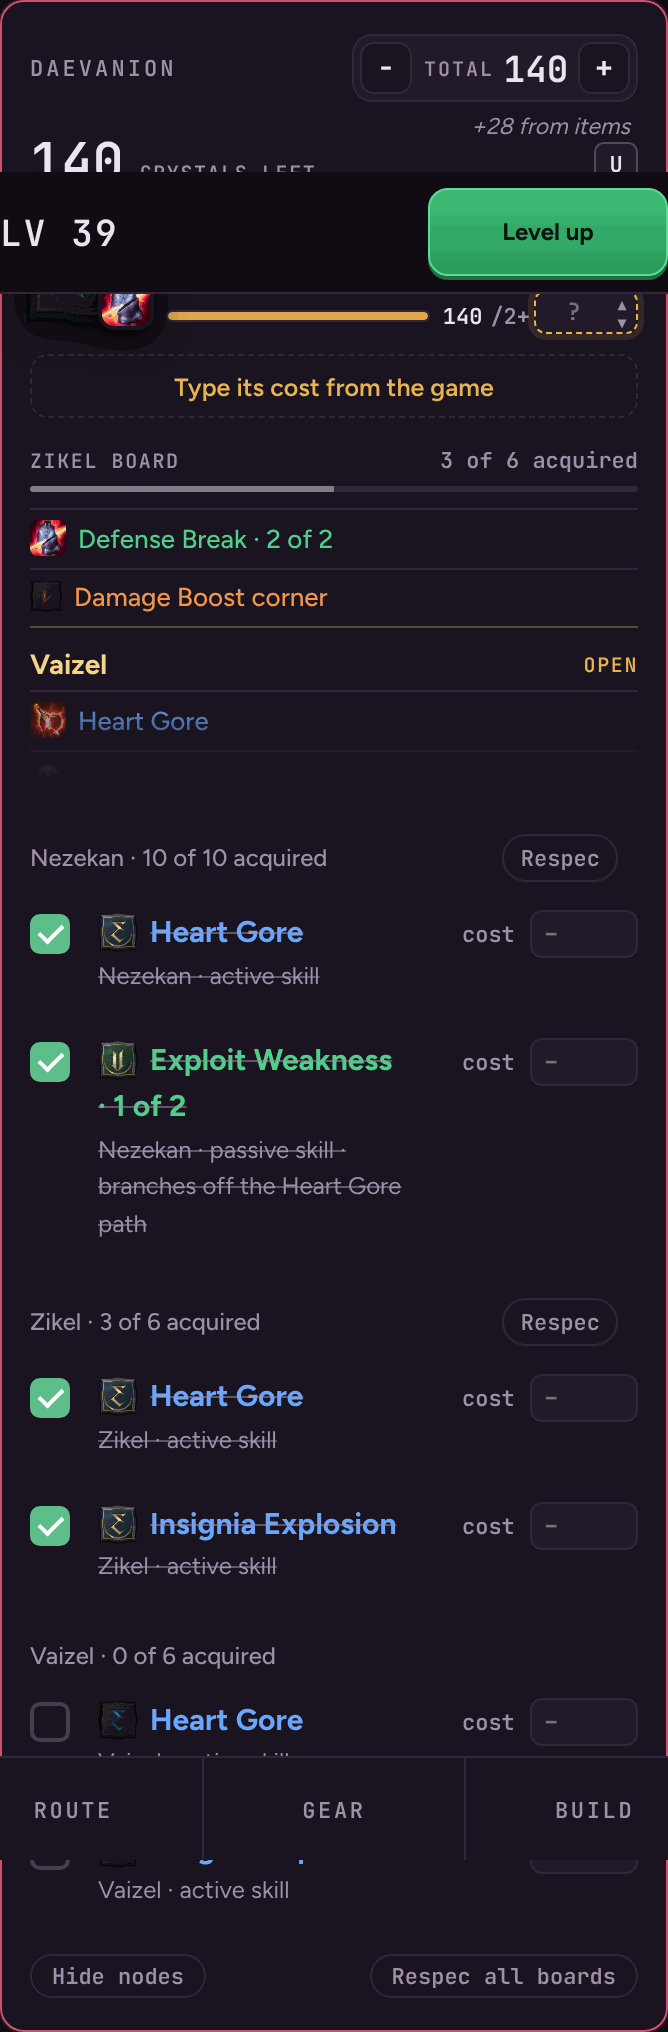
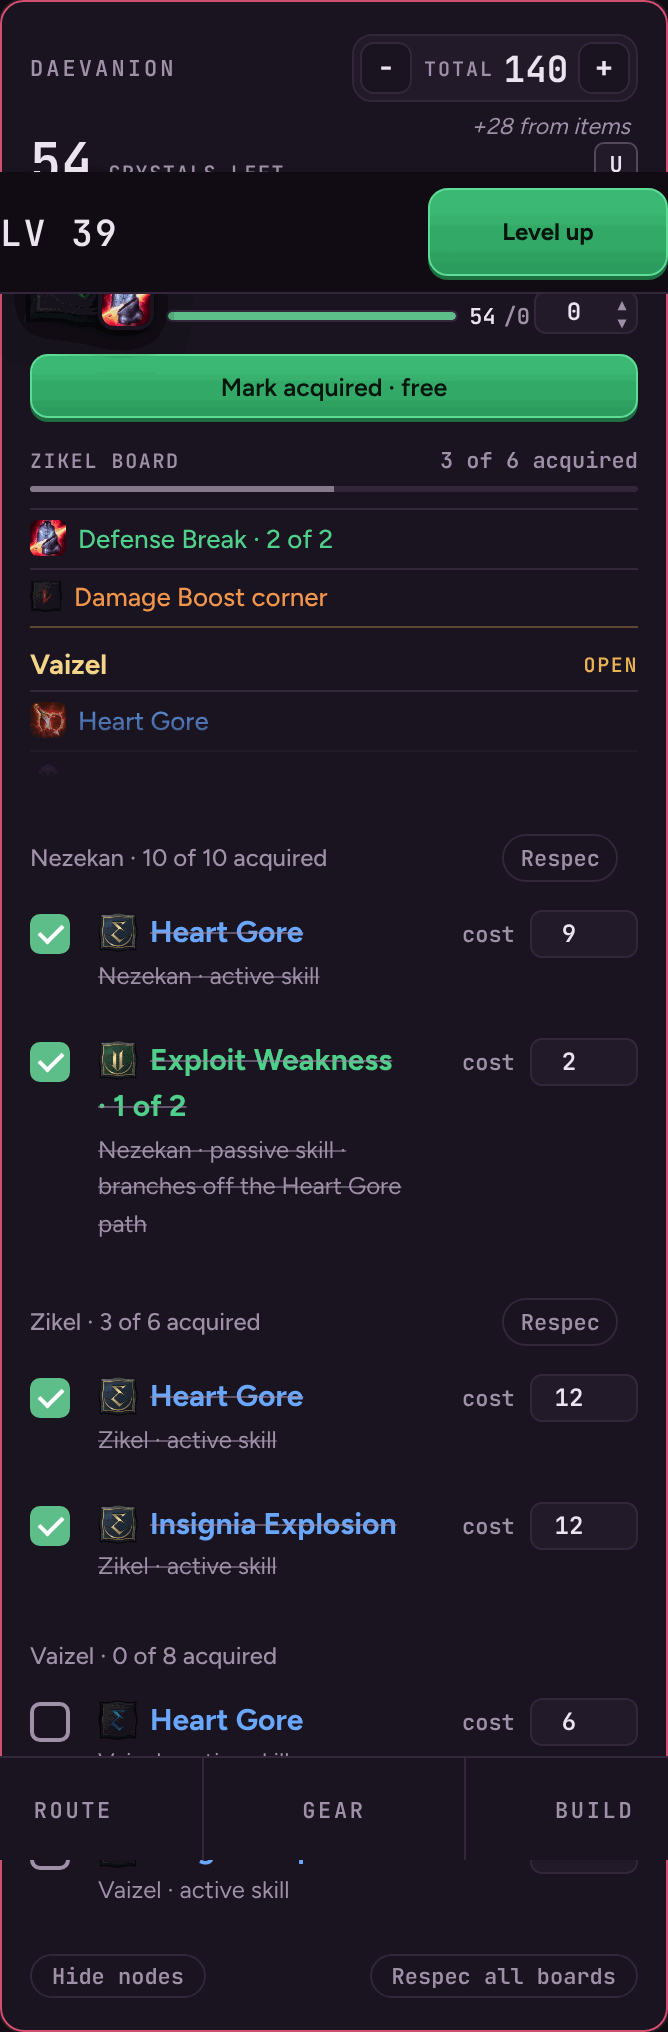
0.9 mockups: catch-up keeps every card whole; one-view rulings applied
Daevanion and Stigmas catch-up become a strip above today's hero, with "Mark bought ▾" / "Mark equipped ▾"
menus, so the hero, cost field, Crystals left and lists stay; after-states drawn. The Missed-chores fold is
dropped (fresh review: it hid each chore's how-to and Done). Catch-up's Basic frames go (it ships in the one
view). One view: the outside rulings on the five drops are recorded; the Fastest / Completionist toggle stays
until "Main path only" ships with it. Docs and mockup files only.

Claude-Session: https://claude.ai/code/session_01K8AEp1D6fnpHKSP7HbTKan

diff --git a/docs/design/0.9-catchup/README.md b/docs/design/0.9-catchup/README.md
@@ -88,11 +88,17 @@ whole jump instead of one level.
 - Other levels: `10-skills-lv27-390` (96 pts, 8 skills at 4–9), `10-skills-lv45-390` (203 pts, 10 skills). Another class:
   `10-skills-ranger-*`, where specialties have no sourced pick yet ("Specialty slot 1 opens · no sourced pick yet").
 
-**Daevanion** (`10-boards-*`): one row per open board, with its plan nodes and crystals ("Nezekan board · 10 nodes · 52
-crystals · Have them"). Triniel is listed, greyed: "Opens at Lv 40". The crystal counts come from #602. Isaac's Zikel
-screen reads "Total: 42" against 47 here, so that one is with Game Data Check before the build. **Stigmas** (`10-stigmas-*`): the four slots in the
-same row pattern, with "Have it" and their plan levels. Each button's name says which row it marks ("Have them: Zikel
-board").
+**Daevanion and Stigmas** (`10-boards-*`, `10-stigmas-*`): today's cards stay whole: the hero next node with its cost
+field, "Need 9 more · +4 per level", Crystals left and the board's node list; the next stigma with "change ▾" and its
+action. Above the hero, one strip says what opened before you joined, with a menu to mark what you already have:
+- Daevanion: "3 boards opened before you joined · Mark bought ▾". The menu lists Nezekan (10 nodes · 52), Zikel (6 · 47)
+  and Vaizel (8 · 39), and says "Triniel opens at Lv 40". Marking a board ticks its guide nodes. Total stays the number you
+  type from the game, so Crystals left counts them as spent (`10-boards-after-*`: 140 typed, 88 left, the hero moves to
+  Zikel).
+- Stigmas: "4 stigma slots opened before you joined · Mark equipped ▾", with each slot and its level. Marking one ticks the
+  slot equipped; you set its level in Slots. After all four (`10-stigmas-after-*`) the strip is gone and the card is today's.
+- The crystal counts come from #602. Isaac's Zikel screen reads "Total: 42" against 47 here, so that one is with Game Data
+  Check before the build.
 
 **The 1500 row** (`10-row-1500`): all three cards in catch-up together. The Skills card sets the row's height, Daevanion
 and Stigmas fill it, and the three foot rows line up.
@@ -104,11 +110,11 @@ specialty …", and Mark spent. This is what Isaac described.
 **Next up, option B** (`10-nextup-b-*`): one card for the whole catch-up ("Catch up 8 skills · 164 of your 165 pts · Heart
 Gore first", Show in Skills). Not picked: Next up stops naming the next action, which is its job.
 
-**Folded chores** (`10-nextup-fold-*`, UX audit 8): the four Missed chores from more than 10 levels back (Lv 4–16) fold into
-one card, "4 early steps you have probably done", with Review and All done.
+**Missed chores stay as they are.** The fold (UX audit 8) is dropped: a fresh review found it hid each chore's how-to,
+location and Done, and "All done" would dismiss four steps you hadn't seen. Today's chore cards keep all of that.
 
 **Cost:** no new card height: the Skills card keeps its shape, and the hero and Coming up only change what they count.
-Build work is a jump step in the Skills hero, a catch-up kind in Next up, and two row lists. No save field: a jump is done
+Build work is a jump step in the Skills hero, a catch-up kind in Next up, and one strip with a menu, used twice. No save field: a jump is done
 when its lines are ticked.
 
 **Out of scope, but it touches this:** slot 2 specialties (0.8.1 notes 5 and 6). Once they land, a jump whose board nodes
@@ -126,7 +132,8 @@ take the skill to 12 adds "· slot 2: …" to its line.
 |---|---|
 | Skills hero, its ACTIVE chip, "priority #1", "Mark spent", "+N more your points cover", Coming up and "N of 141 spent" in catch-up (Holly 2, 3; critic 2) | Brought back: catch-up now uses today's hero |
 | Next up's level band in catch-up (critic 3) | Brought back |
-| Daevanion's and Stigmas' heroes (next node, next stigma level) while their catch-up is open (Holly re-review) | Brought back after the catch-up: once the last "Have them" / "Have it" is marked, each card returns to today's hero, as Skills does (`10-skills-done-*`). During the catch-up the list is the card's next step. These two catch-up looks and the folded chores are new since the critic's pass, so they get one fresh look (K24) before the build |
+| Daevanion's and Stigmas' heroes, cost field, "Need N more", Crystals left, node list, the next stigma and "change ▾" (Holly re-review; fresh review of 4bafe69, 1–3, 11–12) | Brought back: both cards stay whole, and catch-up is a strip above the hero |
+| Each Missed chore's how-to, location and Done (fresh review 18–19) | Brought back: the fold is dropped |
 | "How points work" / "How shards work" labels | Kept, as the name and tooltip of the "i" button |
 | The two-step "Click again to respec" (critic 7) | Brought back, with Undo added. A fresh outside reviewer said bring back: the Undo toast lasts about 5 s, isn't saved, and sits a card away from the button on a phone, while a Daevanion respec also clears typed node costs. Undo alone would do only if it were kept in the save until the next change. |
 
@@ -142,7 +149,7 @@ take the skill to 12 adds "· slot 2: …" to its line.
 | 8 | Fixed: no dead band; the card keeps today's shape (the old view left `fitSkills`' min-height) |
 | 9 | Fixed: `10-row-1500` |
 | 10 | Fixed: Basic catch-up frames and the hand-back (`10-skills-done-*`) |
-| 11 | Fixed: "Mark spent", "Have them", "Have it"; Next up "Mark spent" |
+| 11 | Fixed: "Mark spent", "Mark bought", "Mark equipped"; Next up "Mark spent" |
 | 12 | Fixed: one foot row on all three cards (the "i" button) |
 | 14 | Fixed: "Nezekan reset · 10 nodes back · Undo" |
 | 15 | No data issue: specialty slot 1 opens at skill Lv 8 (`rule:specialty-slots`), so a pick at 9 is open |
@@ -169,3 +176,20 @@ take the skill to 12 adds "· slot 2: …" to its line.
 | B1, B2 | For Holly's brief template, not the design |
 | B3 | Fixed: Lv 27 and Lv 45 frames, 360 frames for the menu and the board chip |
 | Checklist | Names: each row button names its row; the ✓ is "Marked". Tap targets: Mark all spent, N more and the board chip are 24 px tall. Text: nothing under 11 px. Missing states drawn: Basic, nothing to respec, Lv 27 / 45, catch-up done. Not drawn: the Undo toast timing out (it leaves, and the respec stays); focus rings (the build's own `:focus-visible` applies; checked in the build PR). Saved progress: no new field. |
+
+**Fresh review of the catch-up looks** (`design-review/fresh-review-0.9-catchup.md`, items 1–24, at 4bafe69)
+
+| # | Answer |
+|---|---|
+| 1–3, 11, 12 | Fixed: the cards stay whole; catch-up is a strip above the hero |
+| 4 | Fixed: the NEW tag is back with the card |
+| 5 | Kept: "Respec ▾" is note 9's option A |
+| 6, 8 | Gone with the row list |
+| 7, 16 | Fixed: "Mark bought ▾", "Mark equipped ▾" |
+| 9 | With Game Data Check (Zikel 47 vs the owner's 42) |
+| 10, 17 | Fixed: the hero is the next action during catch-up too; after-states drawn (`10-boards-after-*`, `10-stigmas-after-*`) |
+| 13 | The "i" button has the accessible name "How shards work" (and a tooltip) |
+| 14 | Respec in Basic is the owner's ask (note 9, 0.8.1 F7); the one view keeps it |
+| 15 | Gone with the row list |
+| 18–24 | Fixed: the chore fold is dropped |
+| Lv 27 / 45 | Skills has them (`10-skills-lv27-390`, `10-skills-lv45-390`); the strip only changes its counts |

diff --git a/docs/design/0.9-one-view.md b/docs/design/0.9-one-view.md
@@ -30,7 +30,7 @@ Source: every `body.basic` rule (`src/styles/app.css:177, 636–657, 684`, `sync
 | Today in Basic | One view | Why |
 |---|---|---|
 | `rankNext({ basic })` drops `later` and `adv` cards (`core/nextup.js:140`) | **Basic's list is the headline.** The `adv` / `later` cards move to the On the way line (0.10). Until it lands, they sit in a "More you could do" fold under the cards, closed | The north star stays one step |
-| Forces the Fastest track (`trackOf`, :78); Completionist offers 3 more steps (:149) | **The track toggle is removed** (critic 3, 12). "Main path only" (0.10) replaces it and carries the drawbacks text. Until then, the Completionist extras go into the same "More you could do" fold | Named removal: the Fastest / Completionist toggle (`#trackWrap`, 0.5) |
+| Forces the Fastest track (`trackOf`, :78); Completionist offers 3 more steps (:149) | **The track toggle stays, open, until "Main path only" ships, and both changes land in the same release** (outside ruling, 2026-10-20). Then "Main path only" replaces it and carries the drawbacks text | Named removal, deferred: the Fastest / Completionist toggle (`#trackWrap`, 0.5) |
 | Hides band labels (:150) | **Open**: band labels shown | They name the level range, as milestone cards do |
 | Hides the phone pager (`cards/nextup.js:122`) | **Open** | It's how you reach card 2 on a phone |
 | `.ns-head` hidden ("Prefer running" row) | **Open** | It changes what Next up recommends |
@@ -54,7 +54,7 @@ Source: every `body.basic` rule (`src/styles/app.css:177, 636–657, 684`, `sync
 |---|---|---|
 | Rail sections 4 and later (`aside.rail > section:nth-child(n+4)`) | **Fold** per section, closed | The first three are the essentials |
 | Notes card hidden on a phone (`app.css:177`) | **Fold**, closed on a phone | Same as above |
-| Rail scroll and mask (`app.css:649–657, 684`) and `fitRail()` (`main.js:314`) | **One behaviour: Advanced's sticky rail.** Basic's scroll-with-mask goes (critic 6) | Layout, not hiding; the sticky rail is the tested one |
+| Rail scroll and mask (`app.css:649–657, 684`) and `fitRail()` (`main.js:314`) | **One behaviour: Advanced's sticky rail.** Basic's scroll-with-mask goes (critic 6), on the condition that every rail item stays reachable at 390 and 1500 (a check in P21) | Layout, not hiding; the sticky rail is the tested one |
 | Header subtitle (`header.top .sub`: "Free-to-play · story first · Next up always shows your next move.") | **Drop** | Says what the page already does. Named drop |
 | `#routeCard` (Route rules) | **Fold**, closed | Reference, not a step |
 | Progress folded on a phone in Basic only (`main.js:190`, `owner-ok-phone`) | **Fold on a phone, always** | The phone rule becomes the rule |
@@ -67,7 +67,7 @@ Source: every `body.basic` rule (`src/styles/app.css:177, 636–657, 684`, `sync
 | Control hints (`.ctlcol em`: "165 earned from levels") | **Open** | They explain the number you type |
 | Skills: `.sphint`, `#spSoon` past row 1, `#spAfter .dvbh` (the N of 141 bar) | **Open** (Advanced's card) | Holly 2 / 3 brought these back for catch-up; one card shape |
 | Daevanion: `#dvRemain`, `#dvBoard`, `#dvThen` past row 1, `#dvAllList`, `#dvUndo` | **Open**, with All nodes as today's button | Same card as Advanced; All nodes is already a button |
-| Stigmas: `#stAfter` hidden, `.st-then` shown instead | **Advanced's `#stAfter`**; `.st-then` goes | One list per card (no redundancy) |
+| Stigmas: `#stAfter` hidden, `.st-then` shown instead | **Advanced's `#stAfter`**, which is the upcoming-stigmas list ("Coming up · N of 92 spent", each next level with its level and shard cost). `.st-then` goes because `#stAfter` covers it | One upcoming list per card (no redundancy) |
 | `.cubebar` | **Open** (it's `hidden` until it has content) | No change |
 | Areas: `.achips`, `.sh-note`, `.ztr` | **Fold** inside Areas: "Filters and notes" | Inventory, not a step |
 | Sync: `.sync-adv` | **Fold**: "Sync settings" | Settings, not a step |
@@ -85,13 +85,20 @@ Each needs a DECISIONS line in P21 saying what the one view does. The basis is t
 | `owner-ok-phone` ("Basic opens on Next up … Progress folded") | The one view opens on Next up on a phone, with Progress folded |
 | 0.8.1 F7 (Respec in Basic) | Ships as is; the one view keeps it |
 
-## Drops (for the outside reviewer)
+## Drops, with the outside rulings (fresh review items 25–29, 2026-10-20)
 
-1. The Basic / Advanced switch.
-2. The Fastest / Completionist track toggle. It's replaced by "Main path only" in 0.10, and its extras sit in a fold until then.
-3. The header subtitle line.
-4. Basic's scrolling rail with the fade mask (layout).
-5. Stigmas' `.st-then` short list (`#stAfter` covers it).
+1. **The Basic / Advanced switch: dropped.** The outside reviewer asked for the owner's OK, because "Basic mode =
+   essentials only" is an owner line in CLAUDE.md. That OK is in the owner's own 5:45 PM ET message, which hands this exact
+   decision to review ("see if it really needs to exist or we can just make one better version, so we don't have to
+   maintain two views"). The first outside critic agreed on the merits. The owner is away, so the CLAUDE.md rewrite cites
+   that message.
+2. **The Fastest / Completionist toggle: not dropped in 0.9.** It goes only when "Main path only" ships in the same
+   release.
+3. **The header subtitle line: dropped** (agreed; it holds none of the required "unofficial / not affiliated" text).
+4. **Basic's scrolling rail with the fade mask: dropped** (agreed, on the condition that every rail item stays reachable
+   at 390 and 1500).
+5. **Stigmas' `.st-then` short list: dropped** (agreed, on the condition that the view keeps an upcoming-stigmas list:
+   `#stAfter` is that list).
 
 Everything else is open or folded. **Test before P21 is reviewed:** a shot of every card with folds closed and with folds
 open, at 1500 and 390, next to today's Basic and Advanced (the K26 baseline). Every element in today's Advanced has to be
